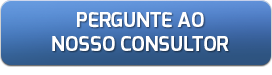
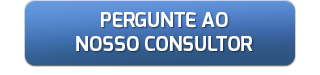
responsive button

diff --git a/css/main.css b/css/main.css
@@ -106,15 +106,26 @@ body, html{
     top: 0;
     left: 0;
 }
-.wrapper a.bt{
-    background: url('../img/bt.png');
-    width: 272px;
-    height: 75px;
+.wrapper a{
+    position: relative;
     display: block;
-    margin: 10px auto 5px;
 }
-.wrapper a:focus{
-    background: url('../img/bt2.png');
+.wrapper a img{
+    width: 100%;
+    height: auto;
+    display: block;
+}
+.wrapper a img.bt01{
+    margin: 10px 0 5px;
+}
+.wrapper a img.bt02{
+    position: absolute;
+    top: 0;
+    left: 0;
+    opacity: 0;
+}
+.wrapper a:focus img.bt02{
+    opacity: 1;
 }
 .wrapper .under{
     width: 100%;

diff --git a/index.html b/index.html
@@ -27,7 +27,10 @@
                 <img src="img/content.png" alt="" class="text"/>
                 <img src="img/maquina.png" alt="" id="maquina" class="hidden"/>
             </div>
-            <a href="#" class="bt"></a>
+            <a href="#" class="bt">
+                <img src="img/bt.png" alt="" class="bt01">
+                <img src="img/bt2.png" alt="" class="bt02">
+            </a>
             <div class="under">
                 <img src="img/under.png" alt=""/>
             </div>
